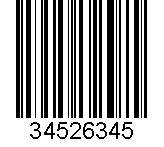
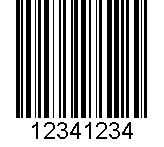
Tobis Merve holen

Changed region(s): [[0.1829, 0.0, 0.8232, 0.9524]]

diff --git a/SYO/src/syo_gui/MainView.java b/SYO/src/syo_gui/MainView.java
@@ -77,12 +77,12 @@ public class MainView extends JFrame implements Observer {
 	// -- Navigationspanel --
 	Label lblNavigation;
 	Label lblNaviStuff;
+	JLabel lblMeldung;
 
 	JButton cmdSammlung;
 	JButton cmdVerwaltung;
 	JButton cmdInfo;
-	JButton cmdStuff;
-
+	
 	JButton cmdPrevious;
 	JButton cmdNext;
 
@@ -151,8 +151,13 @@ public class MainView extends JFrame implements Observer {
 	private JLabel lblCard8Info;
 
 	// --------- Komponenten Card9 - Irgendwelcher Stuff ------
-	JLabel lblCard9;
+	private JLabel lblCard9;
+	private JButton cmdCard9bearbeiten;
+	private JButton cmdCard9speichern;
+	private JButton cmdCard9abbrechen;
 
+	
+	
 	/**
 	 * Konstuktor der Klasse Main View() Die verschiedenen Panels werden
 	 * erstellt
@@ -167,8 +172,9 @@ public class MainView extends JFrame implements Observer {
 		setDefaultCloseOperation(EXIT_ON_CLOSE);
 
 		/*
-		 * ------------------------------------------------------- PANEL - View
-		 * - pnlView-------------------------------------------------------
+		 * ------------------------------------------------------- 
+		 * PANEL - View - pnlView
+		 * -------------------------------------------------------
 		 */
 		cl = new CardLayout();
 
@@ -212,7 +218,15 @@ public class MainView extends JFrame implements Observer {
 		createNavigation();
 		
 		
-		
+		pnlContent.setLayout(null);
+		pnlContent.setSize(900, 600);
+		pnlContent.add(new WhitePanel());
+		pnlContent.setBackground(new Color(222, 222, 222));
+		pnlContent.add(pnlNavigation);
+		pnlContent.add(pnlView);
+
+		getContentPane().add(pnlContent);
+		DBTool.getInstance().closeDB();
 	}
 	
 
@@ -237,8 +251,6 @@ public class MainView extends JFrame implements Observer {
 			public void actionPerformed(ActionEvent arg0) {
 				cl.show(pnlView, "" + (4));
 			}
-			
-			
 		});
 
 		DBTool.getInstance().connectDB();
@@ -261,12 +273,10 @@ public class MainView extends JFrame implements Observer {
 		});
 
 		pnlCard1.add(liCard1Sammlungen);
-
 		scrollPaneCard1 = new JScrollPane(liCard1Sammlungen);
 		pnlCard1.add(scrollPaneCard1);
 		scrollPaneCard1.setBounds(30, 150, 500, 200);
 		scrollPaneCard1.setVisible(true);
-
 	}
 	
 	/**
@@ -606,7 +616,6 @@ public class MainView extends JFrame implements Observer {
 		pnlCard8.add(lblCard8Info);
 		lblCard8Info.setBounds(70, 100, 500, 250);
 		lblCard8Info.setVisible(true);
-
 	}
 	
 	/**
@@ -620,7 +629,33 @@ public class MainView extends JFrame implements Observer {
 
 		lblCard9.setBounds(100, 20, 120, 30);
 		lblCard9.setVisible(true);
+		
+		cmdCard9bearbeiten = new JButton("bearbeiten");
+		pnlCard9.add(cmdCard9bearbeiten);
+		cmdCard9bearbeiten.setVisible(true);
+		cmdCard9bearbeiten.setBounds(440, 60, 185, 30);
+		
+		cmdCard9speichern = new JButton("speichern");
+		pnlCard9.add(cmdCard9speichern);
+		cmdCard9speichern.setVisible(true);
+		cmdCard9speichern.setBounds(440, 100, 185, 30);
+		
+		cmdCard9abbrechen = new JButton("abbrechen");
+		pnlCard9.add(cmdCard9abbrechen);
+		cmdCard9abbrechen.setVisible(true);
+		cmdCard9abbrechen.setBounds(440, 140, 185, 30);
+	
+		
+		
+
+		
 	}
+		
+		
+		
+		
+
+	
 	
 	/**
 	 * Creates the Navigation
@@ -654,6 +689,16 @@ public class MainView extends JFrame implements Observer {
 		lblNaviStuff.setText("If you think, Java-GUI is easy...");
 		f = lblNavigation.getFont();
 		lblNavigation.setFont(f.deriveFont(f.getStyle() | Font.BOLD));
+		
+		
+		lblMeldung = new JLabel("<html><b>Meldezeile</b></html>");
+		pnlNavigation.add(lblMeldung);
+		lblMeldung.setBackground(Color.white);
+		lblMeldung.setForeground(Color.red);
+		lblMeldung.setBounds(20,250,185, 100);
+		lblMeldung.setFont(new Font("Arial", Font.PLAIN, 14));
+		
+		
 
 		cmdSammlung = new JButton("Sammlungen anzeigen");
 		pnlNavigation.add(cmdSammlung);
@@ -685,16 +730,12 @@ public class MainView extends JFrame implements Observer {
 			}
 		});
 
-		cmdStuff = new JButton("Noch so ein Button");
-		pnlNavigation.add(cmdStuff);
-		cmdStuff.setVisible(true);
-		cmdStuff.setBounds(20, 250, 185, 30);
 
 		// Previous & Next - Buttons / Only for Testing
 		cmdPrevious = new JButton("<-- Previous");
 		pnlNavigation.add(cmdPrevious);
 		cmdPrevious.setVisible(true);
-		cmdPrevious.setBounds(50, 310, 120, 36);
+		cmdPrevious.setBounds(50, 330, 120, 36);
 		cmdPrevious.addActionListener(new ActionListener() {
 			public void actionPerformed(ActionEvent arg0) {
 				if (currentCard > 1) {
@@ -707,7 +748,7 @@ public class MainView extends JFrame implements Observer {
 		cmdNext = new JButton("Next -->");
 		pnlNavigation.add(cmdNext);
 		cmdNext.setVisible(true);
-		cmdNext.setBounds(50, 350, 120, 36);
+		cmdNext.setBounds(50, 375, 120, 36);
 		cmdNext.addActionListener(new ActionListener() {
 			public void actionPerformed(ActionEvent arg0) {
 				if (currentCard < 10) {
@@ -717,15 +758,7 @@ public class MainView extends JFrame implements Observer {
 			}
 		});
 
-		pnlContent.setLayout(null);
-		pnlContent.setSize(900, 600);
-		pnlContent.add(new WhitePanel());
-		pnlContent.setBackground(new Color(222, 222, 222));
-		pnlContent.add(pnlNavigation);
-		pnlContent.add(pnlView);
 
-		getContentPane().add(pnlContent);
-		DBTool.getInstance().closeDB();
 	}
 
 

diff --git a/SYO/src/syo_controller/BarcodeGen.java b/SYO/src/syo_controller/BarcodeGen.java
@@ -83,7 +83,7 @@ public class BarcodeGen {
 	
 	
 	public static void main(String args[]) throws ConfigurationException, BarcodeException, IOException{
-		BarcodeGen barli = new BarcodeGen(34526345);
+		BarcodeGen barli = new BarcodeGen(12341234);
 	}
 	
 }
